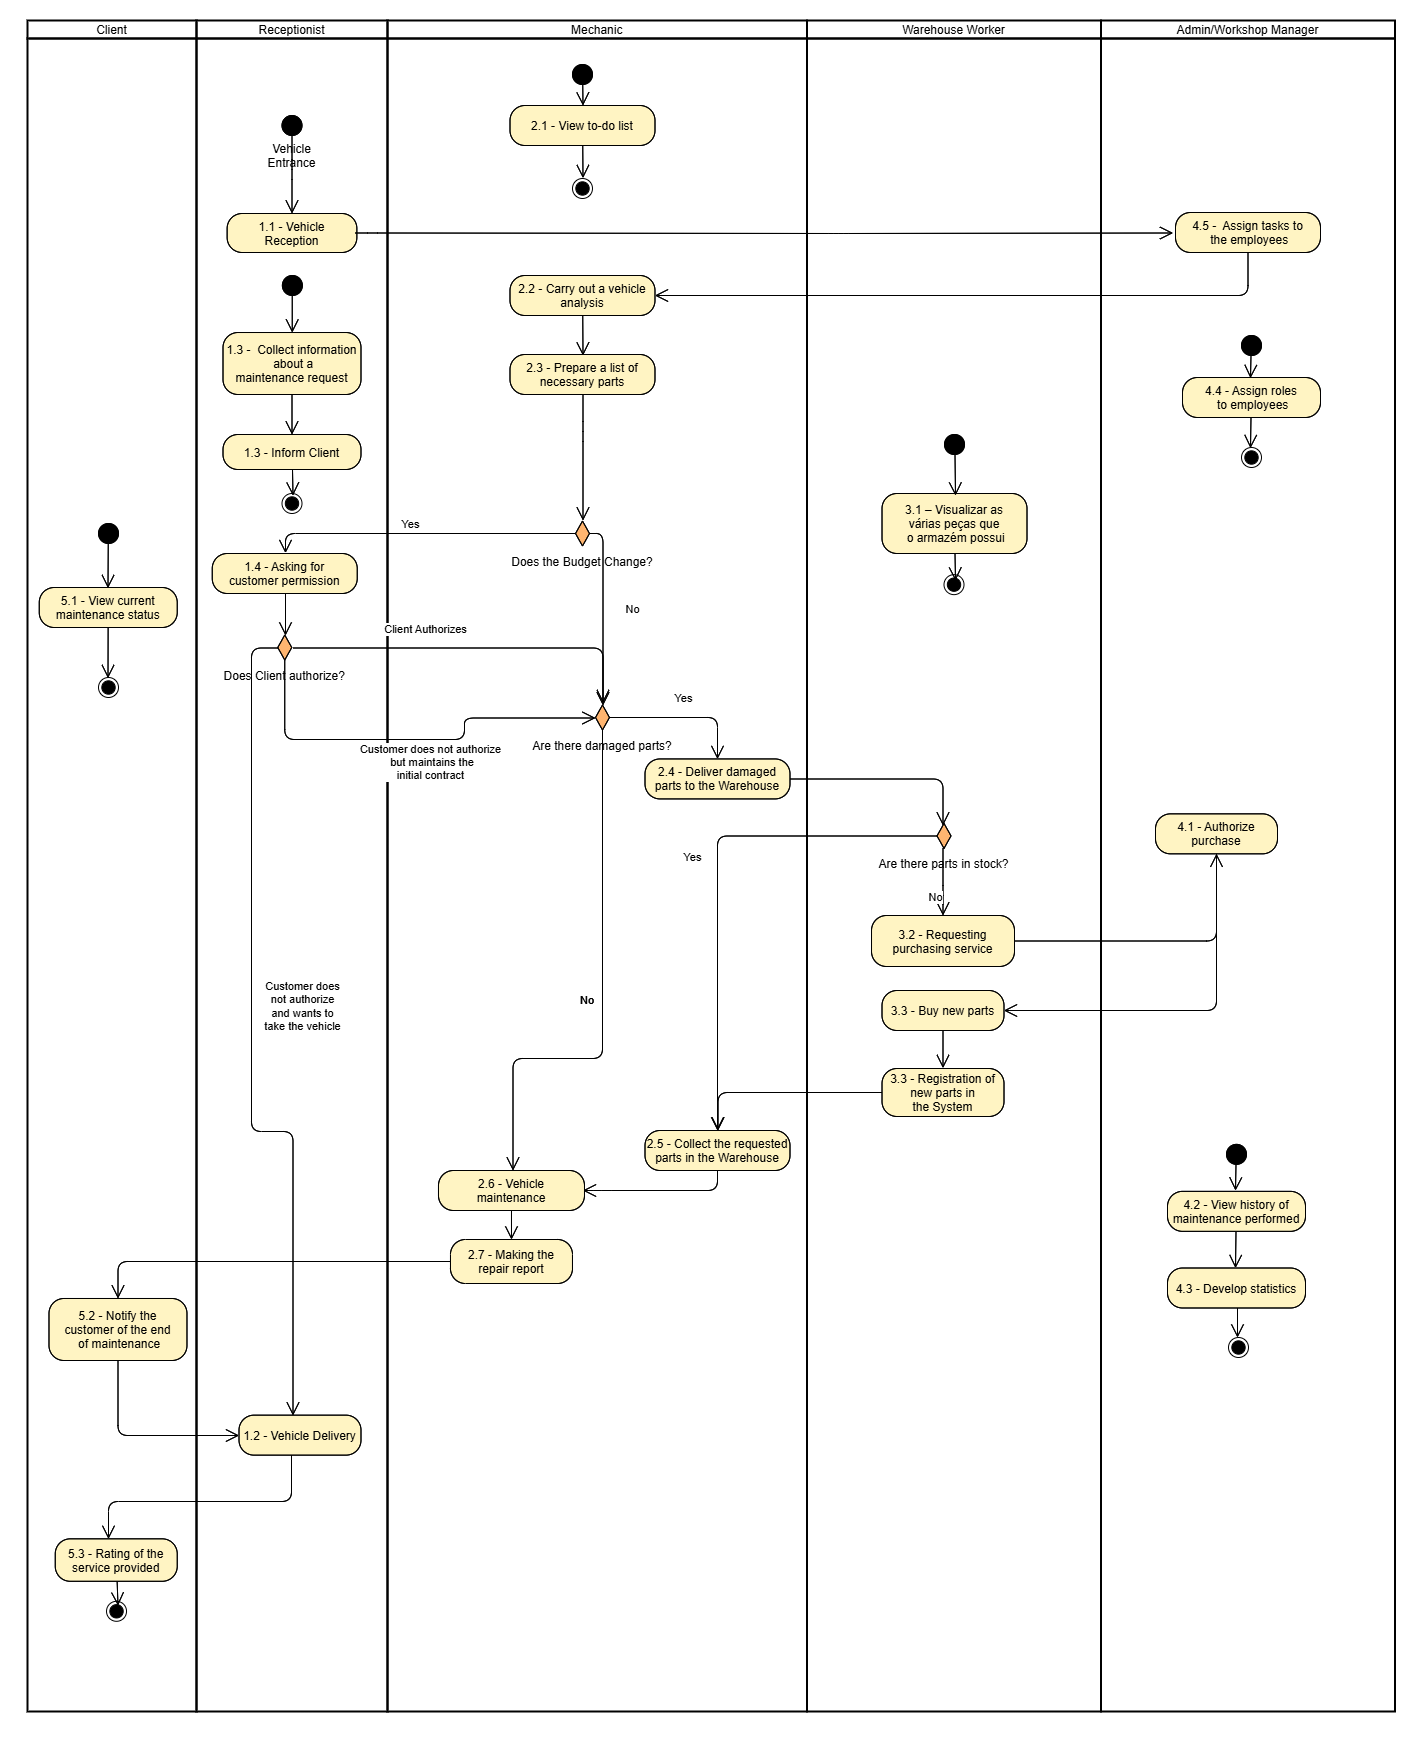
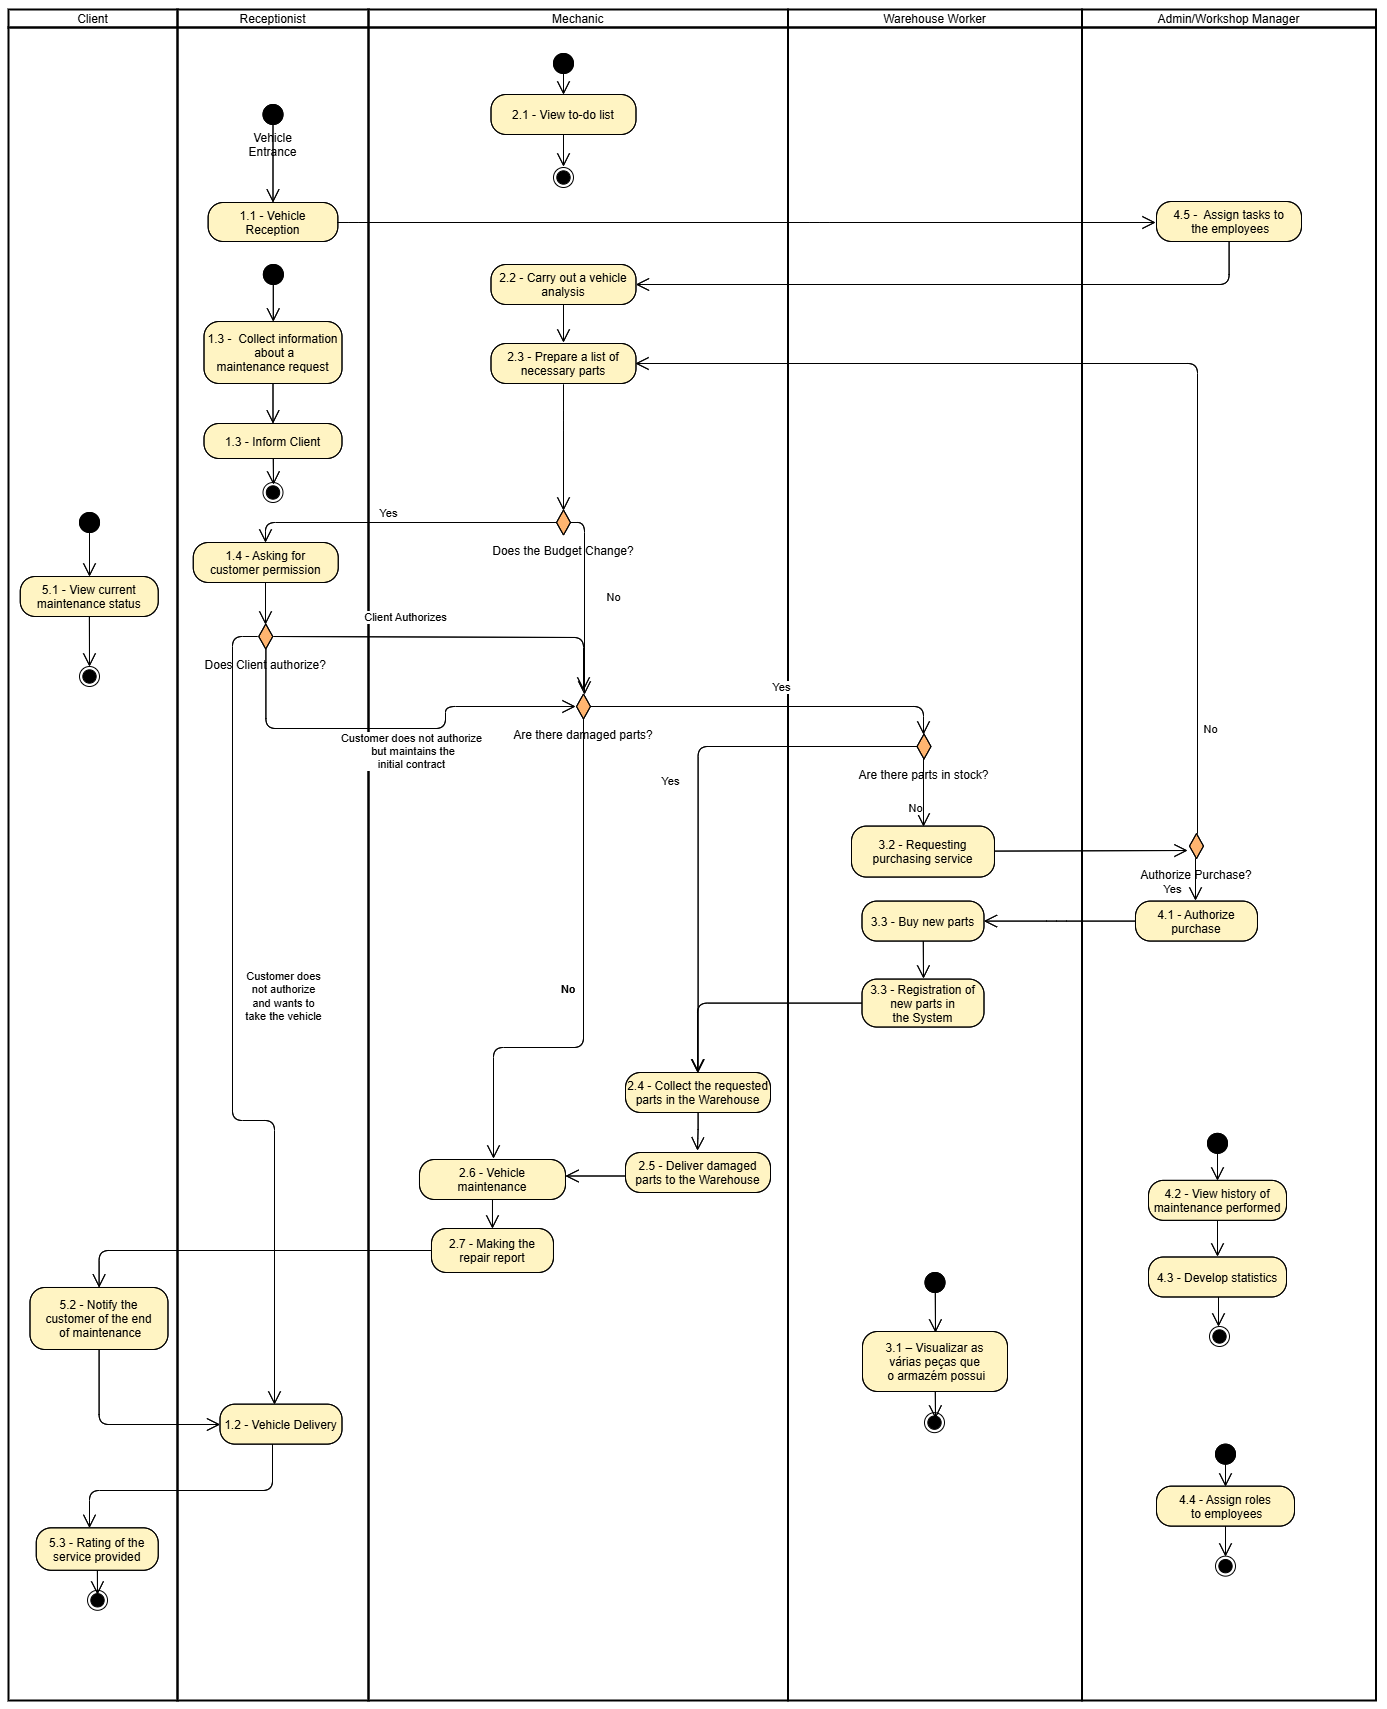
start background

diff --git a/document/chapters/chapter3.tex b/document/chapters/chapter3.tex
@@ -102,7 +102,7 @@ The Use cases of the recepcionist are:
     \begin{itemize}
       \item Scenario – A new vehicle needs to be analyzed.
       \item Objective – Confirm the inicial analysis of the receptionist and search for additional problems.
-      \item System – The mechanic enters the problems he finds in the vehicle into the system, as well as tasks that need to be done. 
+      \item System – The mechanic enters the problems he finds in the vehicle into the system. 
     \end{itemize}
     \item Use Case 2.3 – Prepare a list of necessary parts
     \begin{itemize}
@@ -110,18 +110,18 @@ The Use cases of the recepcionist are:
       \item Objective – Elaborate a request of vehicle parts for the warehouse.
       \item System – The mecanic selects the parts of the vehicle that need to be replaced and sends a request with the new parts to the warehouse.
     \end{itemize}
-    \item Use Case 2.4 – Deliver damaged parts to the Warehouse
+    \item Use Case 2.4 – Collect the requested parts in the Warehouse
+    \begin{itemize}
+      \item Scenario – The mechanic goes to the warehouse to collect new parts for the vehicle.
+      \item Objective – Collect parts to replace the damaged parts in the vehicle.
+      \item System – The mecanic add the new parts to the vehicle in the system.
+    \end{itemize}
+    \item Use Case 2.5 – Deliver damaged parts to the Warehouse
     \begin{itemize}
       \item Scenario – The mecanic goes to the warehouse to deliver the damaged parts.
       \item Objective – Register the parts as being damaged.
       \item System – The mecanic removes the damaged parts from the vehicle and change the status to damaged.
     \end{itemize}
-  \item Use Case 2.5 – Collect the requested parts in the Warehouse
-  \begin{itemize}
-    \item Scenario – The mechanic goes to the warehouse to collect new parts for the vehicle.
-    \item Objective – Collect parts to replace the damaged parts in the vehicle.
-    \item System – The mecanic add the new parts to the vehicle in the system.
-  \end{itemize}
 \item Use Case 2.6 – Vehicle maintenance
 \begin{itemize}
   \item Scenario – A new vehicle is ready for a maintenance.
@@ -235,5 +235,45 @@ After the development of the use cases i designed a flow chart to understand the
   \label{fig:figure2}
 \end{figure}
 
-The system main flow starts with the Use Case 1.1 when a Client arrives at the dealership for a vehicle maintenance. 
-The recepcionist does a inicial a evaluation of the vehicle (if its the case) and get some inputs from the client 
+The system main flow starts when a Client arrives at the dealership for a vehicle maintenance. 
+The recepcionist does a inicial a evaluation of the vehicle (in some cases) and get some inputs from the client. 
+From that information he decides a inicial budget and check-out date agreed with the Client and insert the information in the system (Use Case 1.1).
+After that, the admin will receive a notification of the new created maintenance and will assign the tasks to each worker (Use Case 4.5).
+
+When the worker responsable for do the analysis of the vehicle terminates, he will add to the system all the problem he finds and the necessary parts that need to be replaced (Use Case 2.2 and 2.3).
+If the budget to complete the work or the expected time changes, an alert is sent to the receptionist to inform the Client (Use Case 1.4). 
+The result of this interaction must be authorize the changes and continue the work; not authorize the changes but continue as inicially agreed; and 
+In the case of the Client not authorizing the changes and wanting to check out the vehicle, the vehicle is delivery and the app will request the client to rate the service (Use Case 1.2 and 5.3). 
+If the client does not authorize the changes but wants the maintenance to continue as inicially agreed, the maintenance process continues as if the client authorizing the changes. 
+The maintenance process information would only be alterated.
+
+From there on, the maintenance process can or can not require the need to a vehicle part to be replaced. 
+In the negative case the vehicle goes to the responsable mecanic to do the oil change, tire change, wash, etc (Use Case 2.6). 
+In the affirmative case, the mecanic removes the damaged parts from the vehicle and delivers it to the warehouse (Use Case 2.4).
+There the Warehouse Operator will check if the parts the mecanic request are available in stock. 
+If it does, the operator accepts the request and delivers the parts to the mecanic, which will replace the parts of the vehicle, add it to the system and do the maintenance (Use Case 2.5 and 2.6). 
+If it doesn't, the operator need to buy new parts from the supplier, so he iniciates a new requesting purchase that can be authorized by the admin. 
+In the optimal case, the admin accepts the purchase, the operator buy the new parts, register them in the system and delivers them to the mecanic. 
+In the worst scenario, the admin reject the purchase and the mecanic needs to request new parts and restart the process (Use Case 2.3).    
+
+Finally, when the vehicle maintenance is finished, the mecanic inserts into the system all operations and tests carried out as well as their results (Use Case 2.7). 
+The system notifies the customer that the vehicle is ready for the check out and, when the recepcionist delivers the vehicle to the Customer, the client application ask for the client to rate the system (Use Case 5.2, 1.2 and 5.3).
+
+There are also afew secondary flows visible in the figure \ref{fig:figure2}. 
+This flows are listed below:
+\begin{itemize}
+  \item The client enters the aplication to check the status of the maintenance (Use case 5.1);
+  \item The mecanic enters the application to view the task he has to do (Use Case 2.1); 
+  \item The Warehouse Operator enters the aplication to visualize the diverse parts and components in the warehouse (Use case 3.1); 
+  \item The Admin enters the application to assign roles and/or permission to the employees (Use Case 4.4); 
+  \item The Admin enters the application to gather information about a maintenance performed and see statistics about tha information (Use Case 4.2 and 4.3); 
+\end{itemize}
+
+
+
+
+
+
+
+
+

diff --git a/document/chapters/chapter2.tex b/document/chapters/chapter2.tex
@@ -9,7 +9,10 @@ A memorable quote can also be used. asas
 
 
 \section{Background}
-
+The LightMobie is a company stablished in Águeda that provides a diverse set of products in the shared mobility sector. [14]
+The company also provides a software system to integrate with their bicycles and stations and vehicle maintenance. [14]
+Currently, the company is in step of renewal of the system to a new solution of the bicycles and stations and is building a platform to interact and manage that system.
+This platform ....
 
 \section{Vehicle Maintenance}
 
